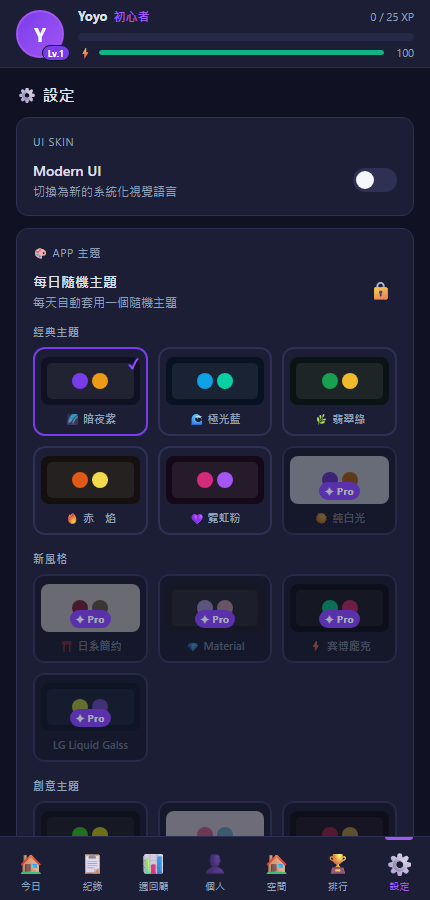
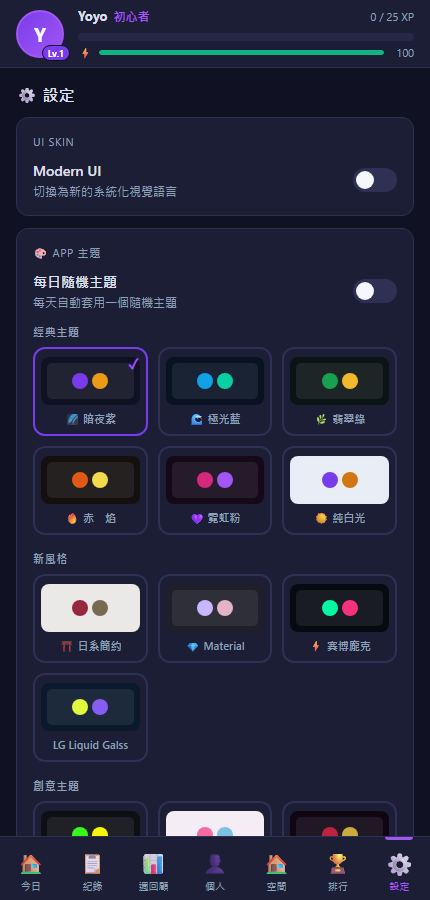
docs(readme): showcase the full theme range
The previous shots were limited to what a free guest can select, which
left out the themes the app is most distinctive for. Settings ships a
localhost-only 開發者工具 card with a 付費 Pro toggle; flipping it
unlocks the rest, so the gallery and four of the creative themes
(cyberpunk / gothic / pixel / anime) are now shown.

Each theme was verified by reading data-theme back off the document
after selecting it, and all four are framed at the same scroll position
so they compare like for like.

diff --git a/README.md b/README.md
@@ -18,13 +18,17 @@
 
 ### 換個樣子
 
-14 種主題，設定頁即時切換（部分為 Pro 專屬）：
+14 種主題，設定頁即時切換：
 
 ![主題清單](docs/screenshots/themes.png)
 
-| 極光藍 | 翡翠綠 |
+| 賽博龐克 | 哥德蘿莉 |
 |---|---|
-| ![極光藍](docs/screenshots/theme-aurora.png) | ![翡翠綠](docs/screenshots/theme-emerald.png) |
+| ![賽博龐克](docs/screenshots/theme-cyberpunk.png) | ![哥德蘿莉](docs/screenshots/theme-gothic.png) |
+
+| 像素 | 動漫 |
+|---|---|
+| ![像素](docs/screenshots/theme-pixel.png) | ![動漫](docs/screenshots/theme-anime.png) |
 
 
 ## 為什麼做這個？
